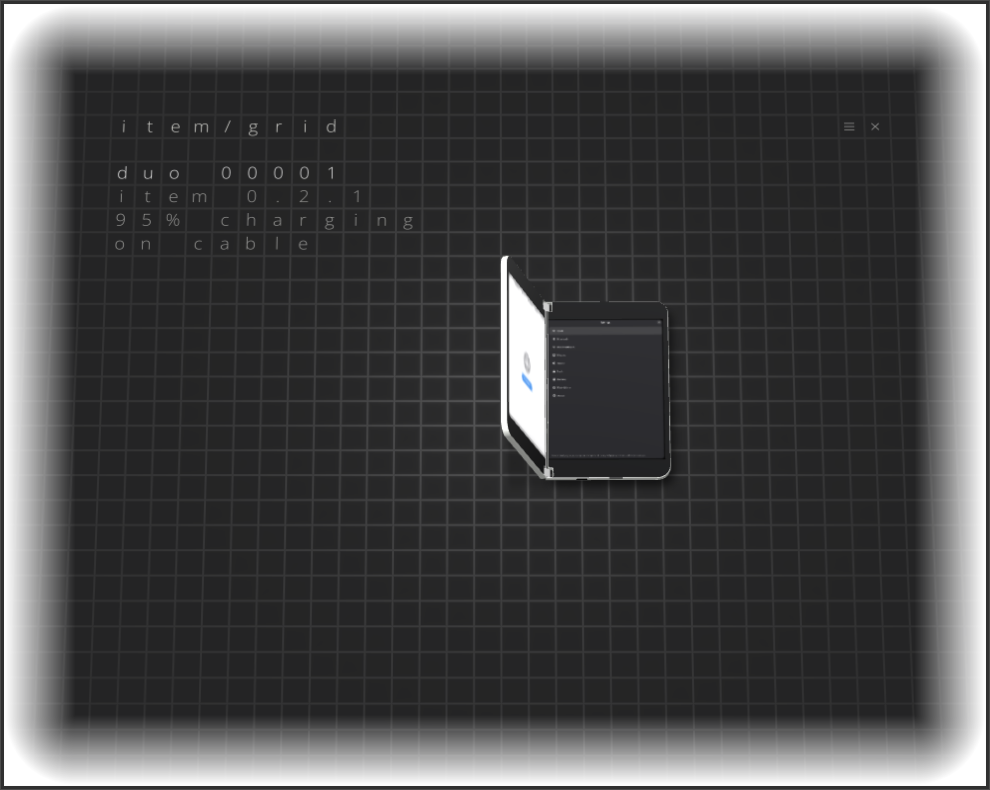
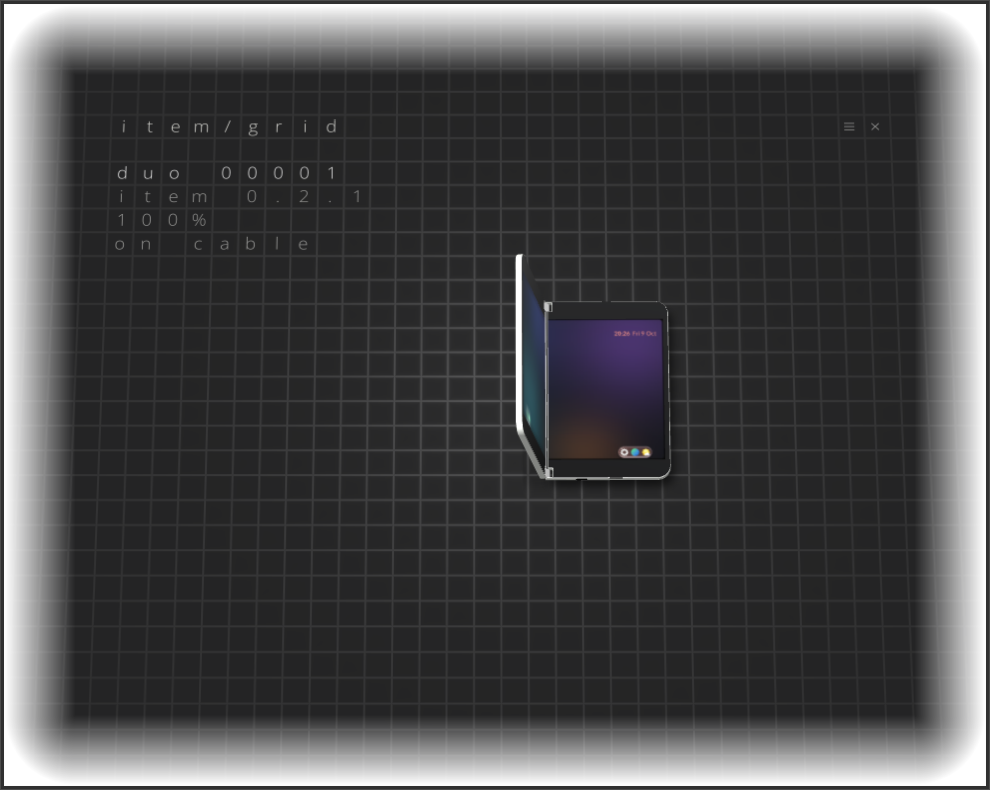
README: the window as it is - the table, the menu's three lines, settings - with three screenshots and a status; LICENSE: MIT

Changed region(s): [[0.4848, 0.3342, 0.6667, 0.6076], [0.1515, 0.2734, 0.1818, 0.3038]]

diff --git a/README.md b/README.md
@@ -12,7 +12,7 @@ takes the phone back to stock Android and to Linux again. The command is
 **Until 1.0, item/grid is an experiment**, as item is. It writes to the
 phone's partitions, so the rules below are checks in its core that cannot be
 gone around, not notes to remember - but it has been used on one phone, the
-owner's. Keep your own backups of `boot_a`, `boot_b` and `misc` from TWRP
+owner's, from one Linux computer. Keep your own backups of `boot_a`, `boot_b` and `misc` from TWRP
 before you let it write anything.
 
 ## What it does
@@ -33,13 +33,37 @@ before you let it write anything.
 | `club`, `register` | the Duo owners' club: a token, the phone's number |
 
 **The window** shows the Duo drawn as it is held - the hinge and the
-gravity from the phone's sensors, its screen live from item's mirror - and
-a few lines on how it is: the phone's number in the club, item's version,
-the battery, the link. Settings hold Repair & Reset - the backup, a
-reinstall, the whole system back, Android - and Developer Mode, which shows
-the slots, images from RAM, every kind of backup and the logs.
+gravity from the phone's sensors, its screen live from item's mirror - on a
+table of light, and a few lines on how it is: the phone's number in the
+club, item's version, the battery, the link. The menu is three lines drawn
+on the same table: *updates* (item's version and build; the update),
+*stock* (the way back to the phone's Android), *settings* (the table's
+look: the lines' colour and width, the grid, the light, the lamp under the
+phone); Developer Mode adds a fourth with the slots, images from RAM, every
+kind of backup and the logs. What is not on the table yet is the command
+line's.
 
-![item/grid's window: the Duo on the table, open as a book, its screen live](docs/img/itemgrid-window.png)
+| | |
+|---|---|
+| ![the window: the Duo on the table, open as a book, its screen live](docs/img/itemgrid-window.png) | ![the menu: updates, stock, settings](docs/img/itemgrid-menu.png) |
+| The window: the Duo as it is held, its lock screen live from item's mirror; beside it the club's number, item's version, the battery, the cable. | The menu, drawn on the table as the rest. |
+| ![settings: the table's look](docs/img/itemgrid-settings.png) | |
+| Settings: the table's look - the lines' colour, the grid, the rim, the light, the lamp. | |
+
+`itemgrid status`, the same phone:
+
+```
+Phone:     Linux (172.16.42.1)
+Club:      00001
+System:    Droidian 102 (2026-08-30), kernel 4.14-190-perf-microsoft-surfaceduo, up 8 h 18 min
+item:      0.2.1 (built 2026-10-09 06:18), running
+Port:      0.22.0, sensorfw 0.14.8+itemae3
+Fingers:   1 enrolled
+Battery:   100%, discharging, 26 °C
+CPU:       32 °C
+Disk /         79.4 GB free of 89.3 GB
+Disk /userdata 9.9 GB free of 101.9 GB
+```
 
 ## The safety rules, as code
 
@@ -83,4 +107,4 @@ install -Dm755 target/release/itemgrid-gui ~/.local/bin/itemgrid-gui
 
 ## License
 
-Not chosen yet; until a LICENSE file is here, all rights are reserved.
+MIT, see [LICENSE](LICENSE).
